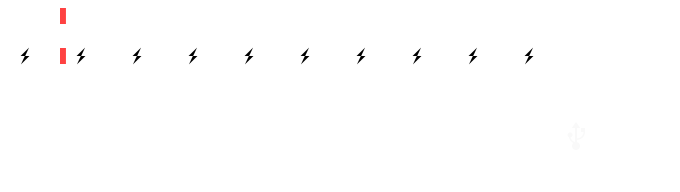
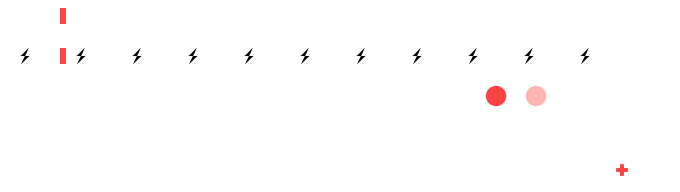
Bug 1056969 - New data/roaming alignment

diff --git a/js/statusbar.js b/js/statusbar.js
@@ -907,6 +907,7 @@ var StatusBar = {
         var voice = conn.voice;
         var data = conn.data;
         var icon = self.icons.signals[index];
+        var roaming = self.icons.roaming[index];
 
         var _ = navigator.mozL10n.get;
 
@@ -925,7 +926,8 @@ var StatusBar = {
           // no SIM
           delete icon.dataset.level;
           delete icon.dataset.searching;
-          delete icon.dataset.roaming;
+          roaming.hidden = true;
+
           icon.setAttribute('aria-label', _('noSimCard'));
         } else if (data && data.connected && data.type.startsWith('evdo')) {
           // "Carrier" / "Carrier (Roaming)" (EVDO)
@@ -953,7 +955,7 @@ var StatusBar = {
           // searching icon if the device is searching. Or show the signal bars
           // with a red "x", which stands for emergency calls only.
           icon.dataset.searching = (voice.state === 'searching');
-          delete icon.dataset.roaming;
+          roaming.hidden = true;
           icon.setAttribute('aria-label', _(icon.dataset.searching ?
             'statusbarSignalNoneSearching' : 'emergencyCallsOnly'));
         }
@@ -1294,7 +1296,8 @@ var StatusBar = {
 
   updateSignalIcon: function sb_updateSignalIcon(icon, connInfo) {
     icon.dataset.level = Math.ceil(connInfo.relSignalStrength / 20); // 0-5
-    icon.dataset.roaming = connInfo.roaming;
+    var roaming = this.icons.roaming[icon.dataset.index || 0];
+    roaming.hidden = !connInfo.roaming;
 
     delete icon.dataset.searching;
 
@@ -1394,9 +1397,11 @@ var StatusBar = {
       this.icons.connections.dataset.multiple = multipleSims;
       this.icons.signals = {};
       this.icons.data = {};
+      this.icons.roaming = {};
       for (var i = conns.length - 1; i >= 0; i--) {
         var signal = document.createElement('div');
         var data = document.createElement('div');
+        var roaming = document.createElement('div');
         signal.className = 'sb-icon sb-icon-signal statusbar-signal';
         signal.dataset.level = '5';
         if (multipleSims) {
@@ -1407,10 +1412,16 @@ var StatusBar = {
         data.className = 'sb-icon statusbar-data';
         data.hidden = true;
 
+        roaming.setAttribute('role', 'listitem');
+        roaming.className = 'sb-icon sb-icon-roaming';
+        roaming.hidden = true;
+
+        signal.appendChild(data);
         this.icons.connections.appendChild(signal);
-        this.icons.connections.appendChild(data);
+        this.icons.connections.appendChild(roaming);
         this.icons.signals[i] = signal;
         this.icons.data[i] = data;
+        this.icons.roaming[i] = roaming;
       }
     }
   },

diff --git a/style/statusbar/statusbar.css b/style/statusbar/statusbar.css
@@ -161,6 +161,14 @@ body .utility-tray .statusbar > .sb-start {
   margin: 0.6rem 0.2rem;
 }
 
+#statusbar-connections .sb-icon-roaming {
+  margin: 0;
+  top: 0.6rem;
+  position: relative;
+  width: 1.4rem;
+  left: 0.1rem;
+}
+
 #statusbar-connections .statusbar-data:not(.sb-icon-data-circle) {
   color: #fff;
   font-size: 1.5rem;
@@ -175,6 +183,7 @@ body .utility-tray .statusbar > .sb-start {
 
 #statusbar-connections[data-multiple="true"] .statusbar-signal {
   position: relative;
+  margin-left: 0.8rem;
 }
 
 #statusbar-connections[data-multiple="true"] .statusbar-signal::before {
@@ -199,10 +208,11 @@ body .utility-tray .statusbar > .sb-start {
 
 #statusbar-connections[data-multiple="true"] .statusbar-data {
   position: relative;
-  width: 1.3rem;
-  margin: 0.6rem 0 0 0;
+  margin: 0;
   font-size: 0.8rem;
-  text-align: right;
+  text-align: left;
+  top: 0;
+  left: -.6rem;
 }
 
 #statusbar-connections[data-multiple="true"] .statusbar-data.sb-icon-data-circle {
@@ -408,18 +418,6 @@ body .utility-tray .statusbar > .sb-start {
   position: relative;
 }
 
-.sb-icon-signal[data-roaming="true"]::after {
-  content: '';
-  position: absolute;
-  width: 0.8rem;
-  height: 0.5rem;
-  top: 0;
-  left: 0;
-  background: url('images/icons.png') no-repeat;
-  background-position: -16rem -4rem;
-  background-size: 34rem 9.6rem;
-}
-
 .sb-icon-network-activity {
   width: 1.6rem;
   height: 1.6rem;
@@ -459,6 +457,10 @@ body .utility-tray .statusbar > .sb-start {
 
 .sb-icon-recording[data-active="true"] {
   background-position: -26rem -4rem;
+}
+
+.sb-icon-roaming {
+  background-position: -16rem -4rem;
 }
 
 .sb-icon-alarm {

diff --git a/test/unit/statusbar_test.js b/test/unit/statusbar_test.js
@@ -136,8 +136,10 @@ suite('system/Statusbar', function() {
 
       var signalElements = document.querySelectorAll('.statusbar-signal');
       var dataElements = document.querySelectorAll('.statusbar-data');
+      var roamingElems = document.querySelectorAll('.sb-icon-roaming');
 
       fakeIcons.signals = {};
+      fakeIcons.roaming = {};
       Array.prototype.slice.call(signalElements).forEach(
         function(signal, index) {
           fakeIcons.signals[mobileConnectionCount - index - 1] = signal;
@@ -146,6 +148,10 @@ suite('system/Statusbar', function() {
       fakeIcons.data = {};
       Array.prototype.slice.call(dataElements).forEach(function(data, index) {
         fakeIcons.data[mobileConnectionCount - index - 1] = data;
+      });
+
+      Array.prototype.slice.call(roamingElems).forEach(function(data, index) {
+        fakeIcons.roaming[mobileConnectionCount - index - 1] = data;
       });
 
       done();
@@ -716,7 +722,7 @@ suite('system/Statusbar', function() {
 
           StatusBar.update.signal.call(StatusBar);
 
-          assert.equal(dataset.roaming, 'true');
+          assert.equal(fakeIcons.roaming[0].hidden, false);
           assert.equal(dataset.level, 4);
           assert.notEqual(dataset.searching, 'true');
         });
